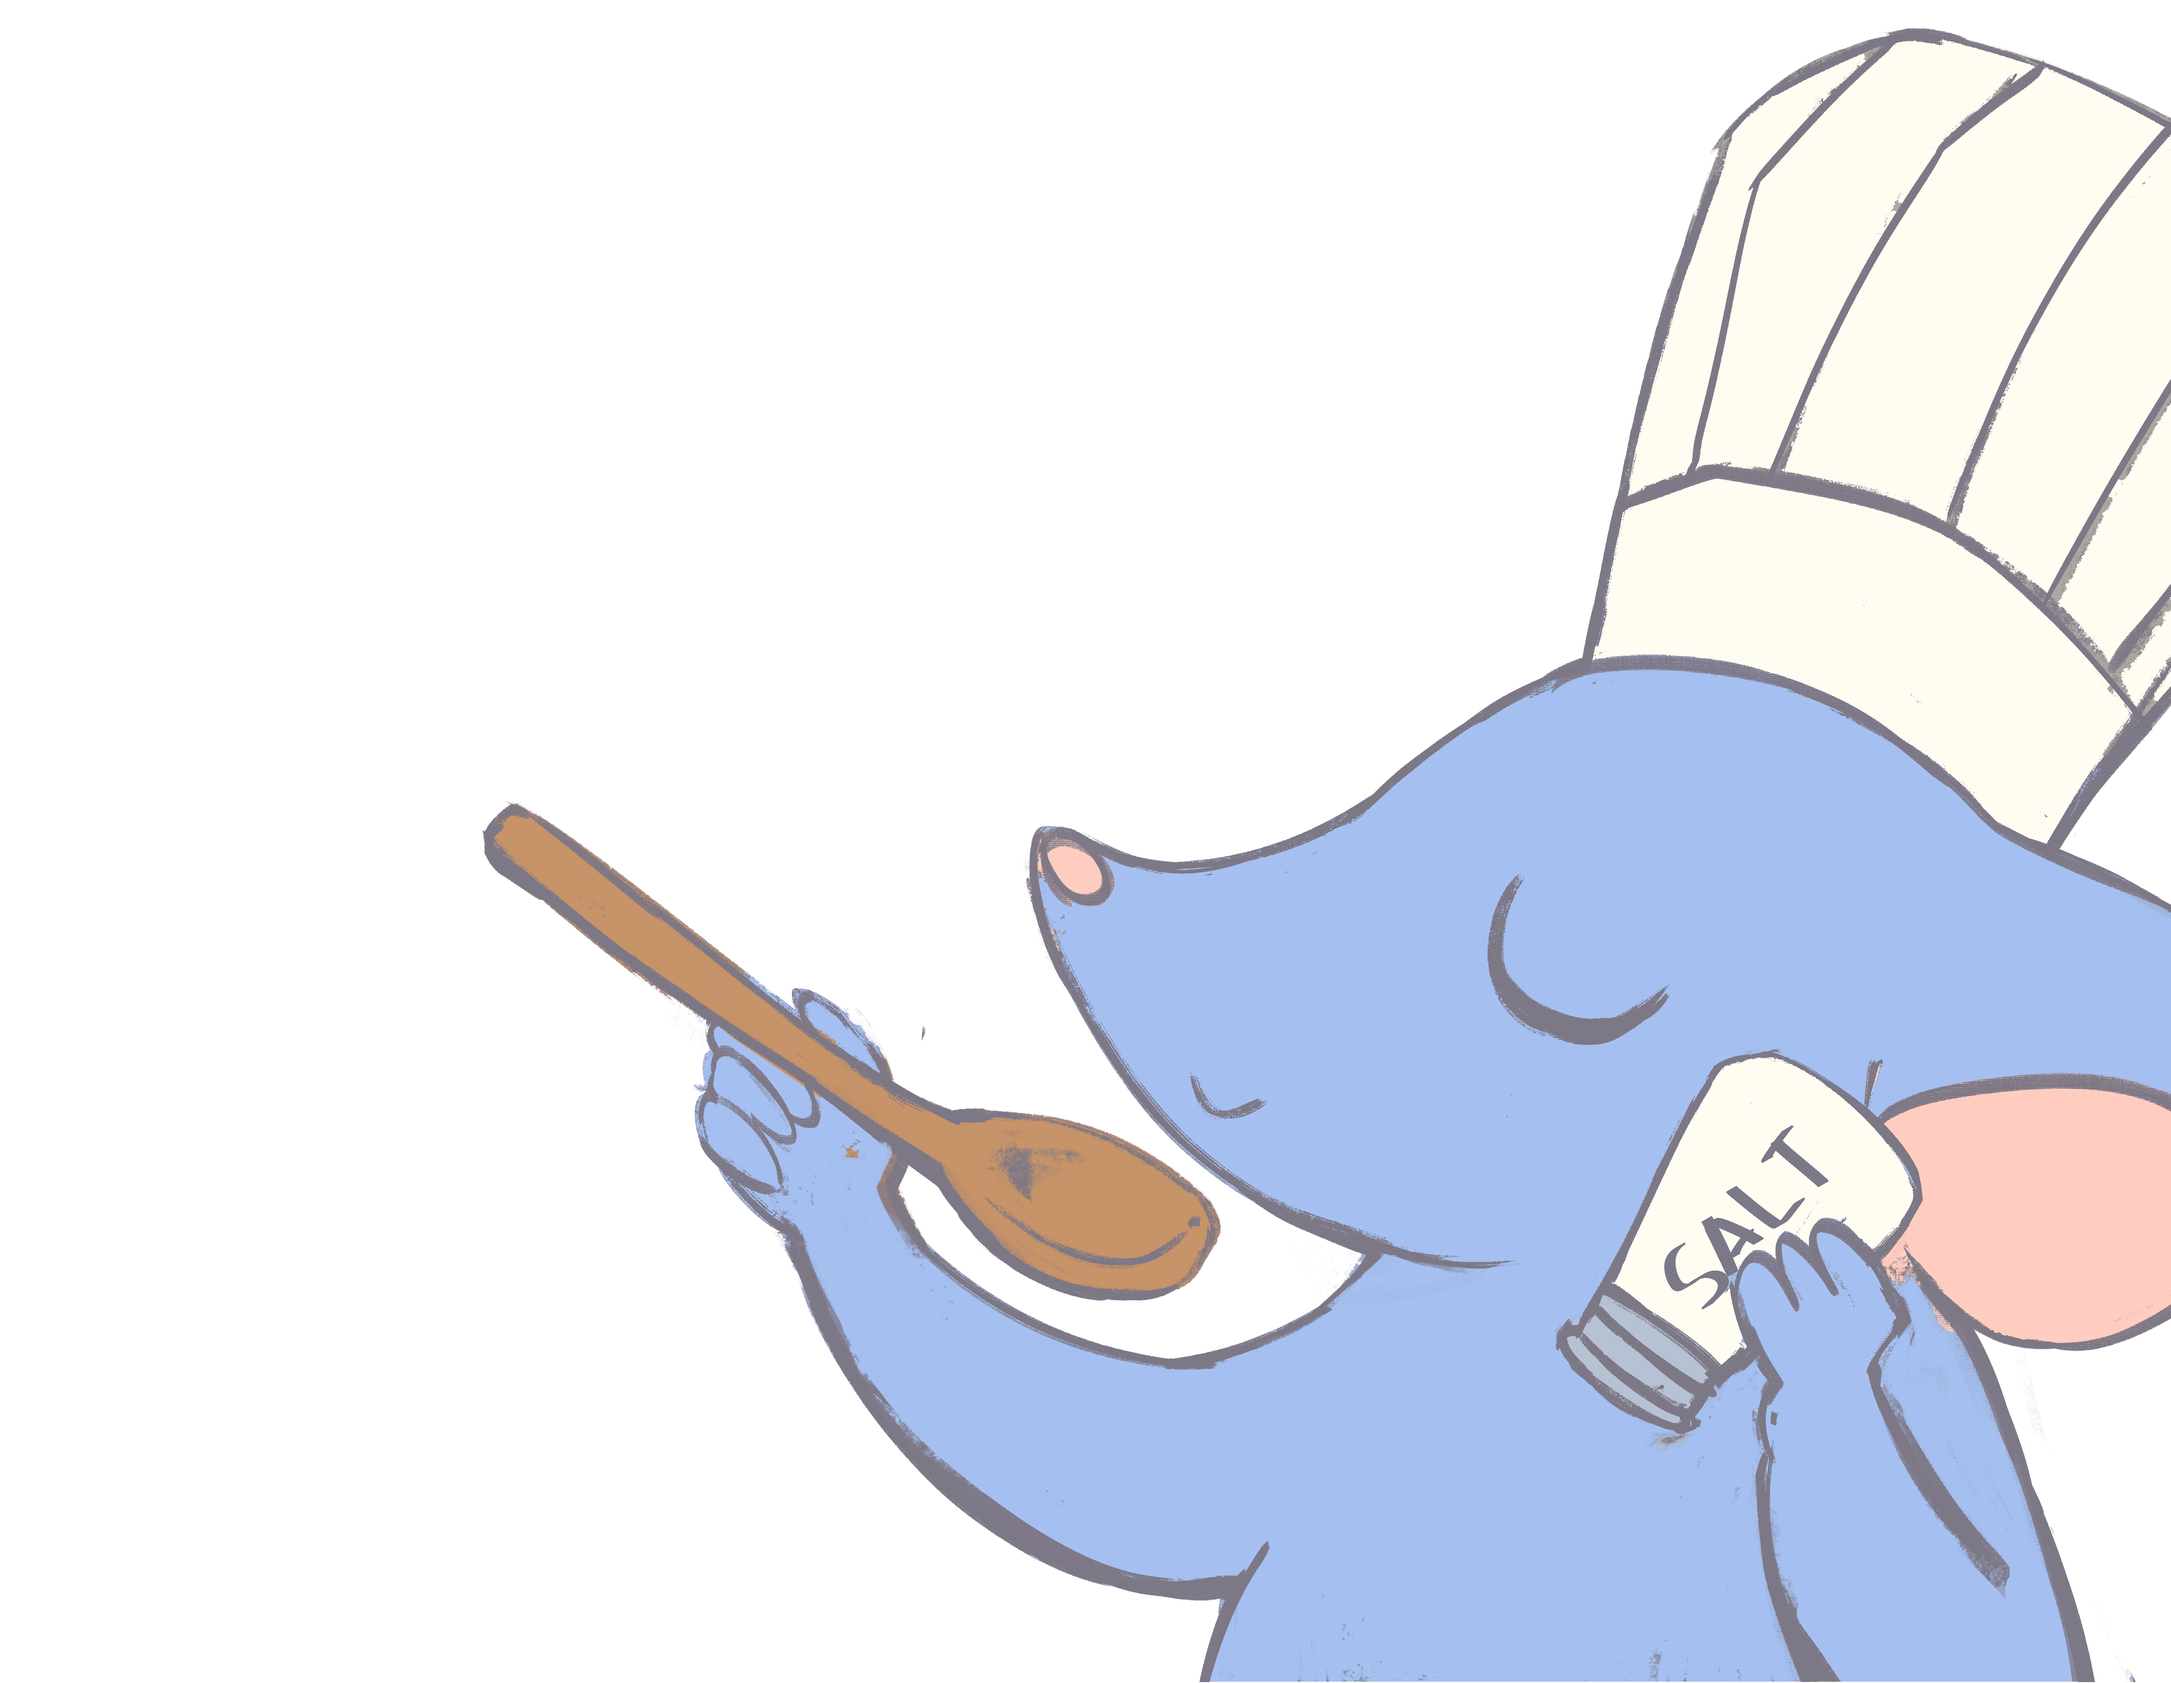
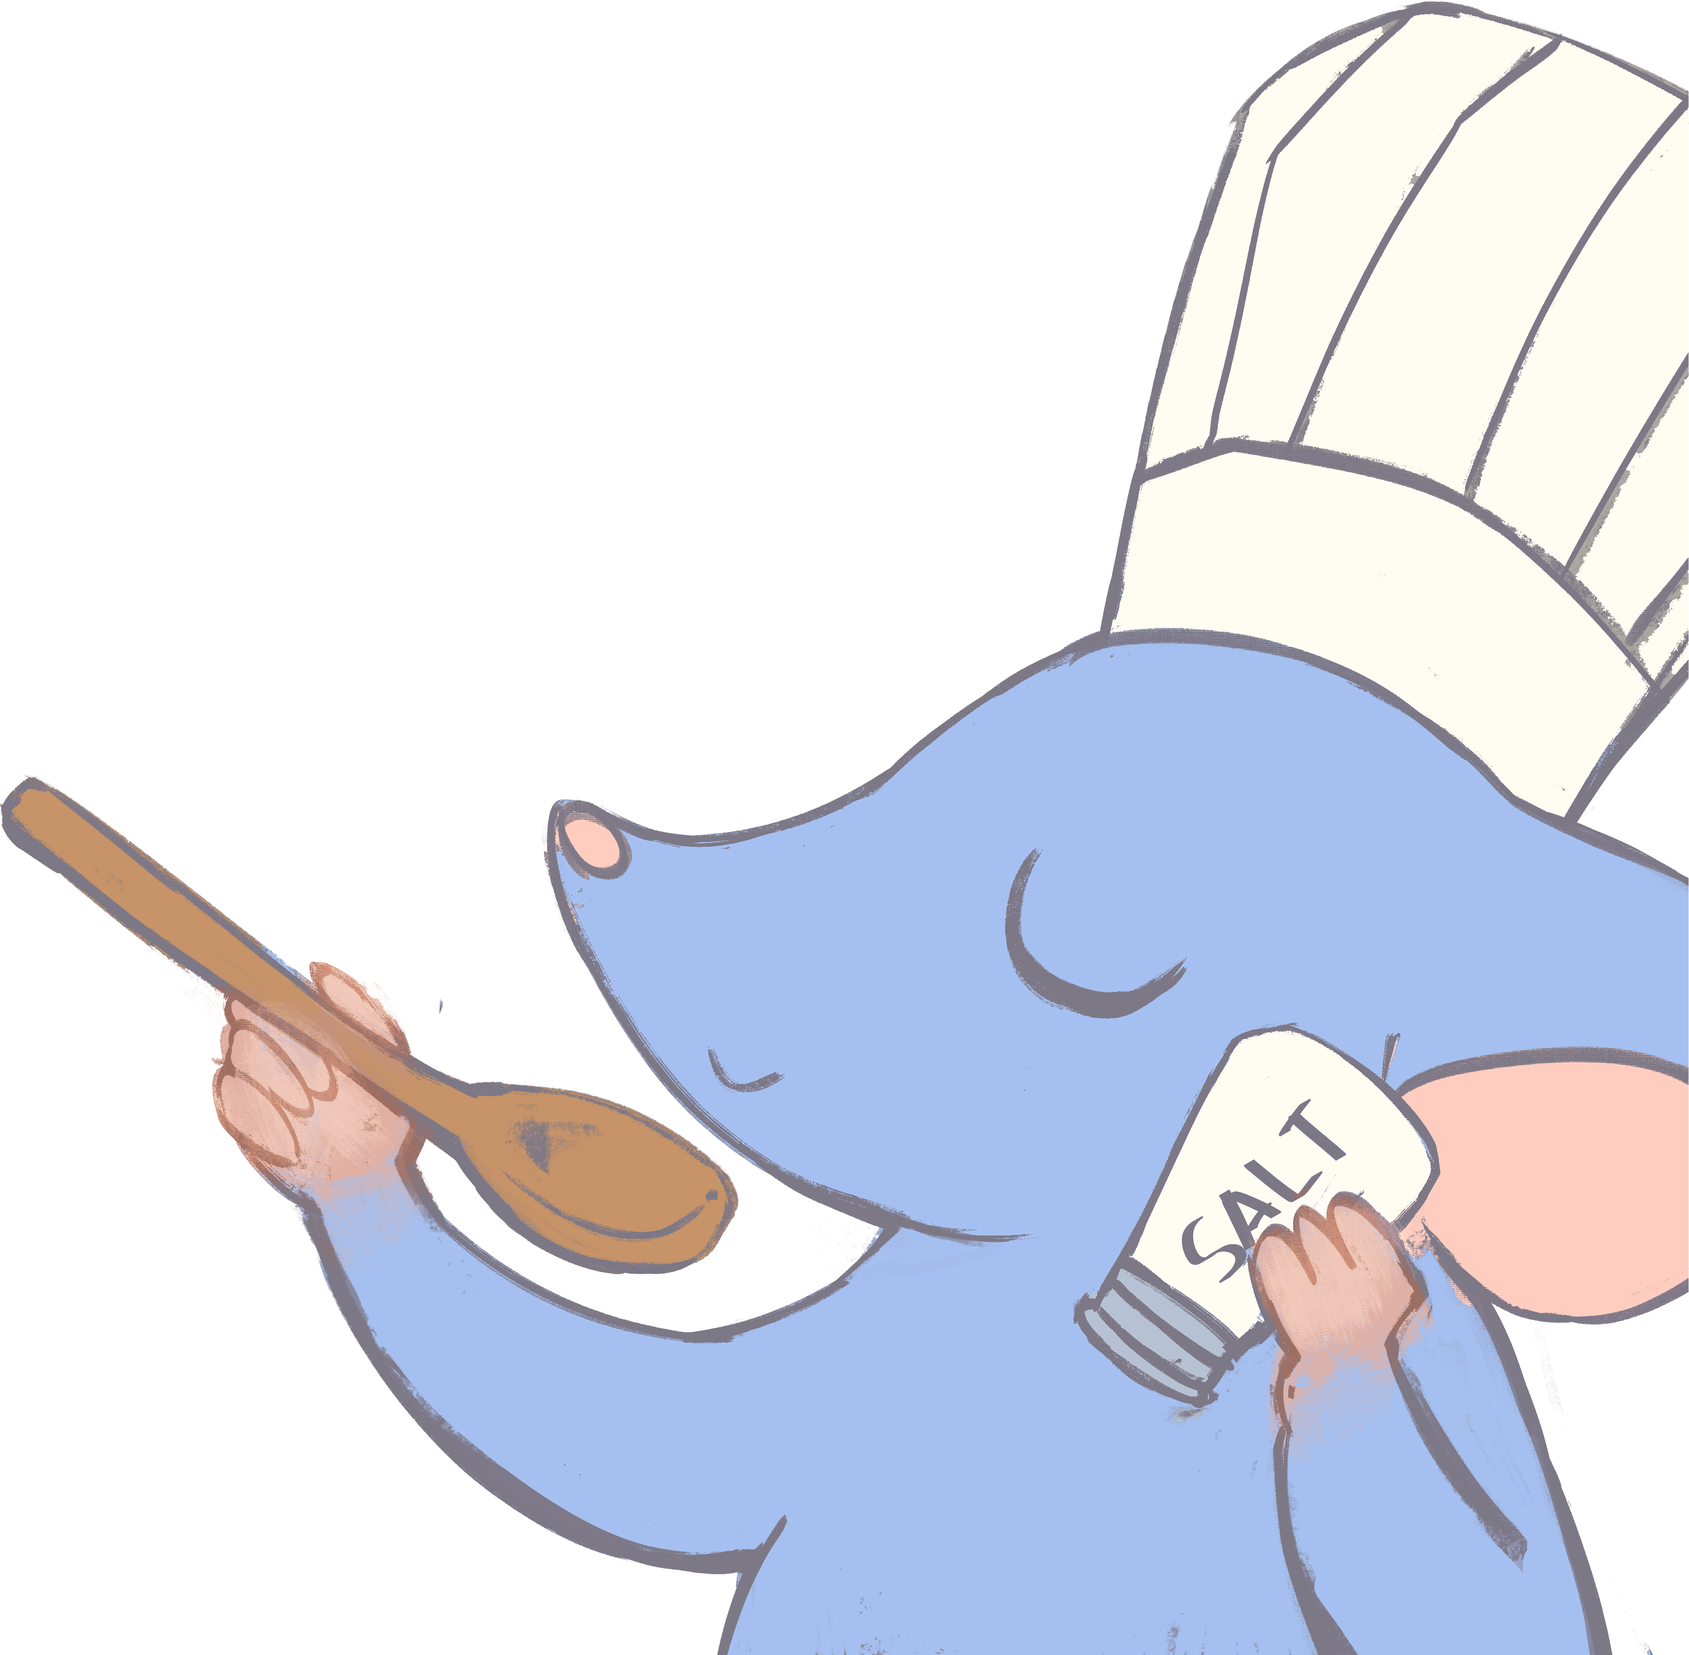
Finished section 3 basics

Changed region(s): [[0.0, 0.0, 1.0, 1.0], [0.9954, 0.5308, 1.0, 0.5621], [0.8398, 0.1561, 0.871, 0.1874]]

diff --git a/index.html b/index.html
@@ -38,6 +38,7 @@
 
         <!-- Section 2: Mental Illness in Canada (CAMH) -->
         <!-- TODO: Add "according to camh..." -->
+        <!-- TODO (Optional): Add transitions to each img element  -->
         <section id="2">
             <img src="https://static.vecteezy.com/system/resources/thumbnails/009/307/490/small/wooden-spoon-isolated-on-transparent-background-file-png.png"
                 id="wooden-spoon-img">
@@ -98,23 +99,38 @@
                 <div class="col-md-7">
                     <div class="section-3">
                         <div class="s3-explanation">
-                            Maybe you've heard of mental conditions described as "chemical imbalances". <br>
-                            Sometimes, this is can be the case! <br>
-                            Similar to Goldilocks looking for a perfect bowl of porridge,
-                            too much or too little of certain brain chemicals can cause undesired effects. <br>
-                            Brains want the "just-right" amount of chemicals to function properly!
+                            <div id="s3-explanation-1" class="animate__animated animate__fadeIn animate__slower">
+                                Maybe you've heard of mental conditions described as "chemical imbalances".
+                            </div>
+
+                            <div id="s3-explanation-2" class="s3-explanation-break animate__animated animate__fadeIn animate__slower animate__delay-1s">
+                                Sometimes, this is can be the case!
+                            </div>
+                            <div id="s3-explanation-3" class="s3-explanation-break animate__animated animate__fadeIn animate__slower animate__delay-2s">
+                                Similar to Goldilocks looking for a perfect bowl of porridge,
+                            </div>
+                            <div id="s3-explanation-4" class="s3-explanation-break animate__animated animate__fadeIn animate__slower animate__delay-3s">
+                                too much or too little of certain brain chemicals can cause undesired effects.
+                            </div>
+                            <div id="s3-explanation-5" class="s3-explanation-break animate__animated animate__fadeIn animate__slower animate__delay-4s">
+                                Brains want the "just-right" amount of chemicals to function properly!
+                            </div>
                         </div>
 
-                        <div class="soup-temperature-container">
+                        <div id="soup-table">
+
+                        </div>
+                        <!-- animate__slower animate__delay-5s -->
+                        <div class="soup-temperature-container animate__animated animate__bounceInLeft">
                             <div class="steam-container">
                                 <img id="steam1" class="steam-gif" src="https://media.baamboozle.com/uploads/images/613393/1673809501_61805_gif-url.gif">
                                 <img id="steam2" class="steam-gif" src="https://media.baamboozle.com/uploads/images/613393/1673809501_61805_gif-url.gif">
                                 <img id="steam3" class="steam-gif" src="https://media.baamboozle.com/uploads/images/613393/1673809501_61805_gif-url.gif">
                             </div>
-                            <div class="bowl-container">
-                                <button class="soup"> Too hot </button>
-                                <button class="soup"> Too cold </button>
-                                <button class="soup"> Just right! </button>
+                            <div class="bowl-container ">
+                                <button class="soup" value="hot" onclick="changeExpression(event)"> Too hot </button>
+                                <button class="soup" value="cold" onclick="changeExpression(event)"> Too cold </button>
+                                <button class="soup" value="right" onclick="changeExpression(event)"> Just right! </button>
                             </div>
                         </div>
                     </div>
@@ -123,6 +139,8 @@
 
                 <div class="col-md-5 salt-rat-parent">
                     <img id="salt-rat" src="img/rat-salt.png">
+                    <img id="salt-rat-hot" src="img/rat-salt-hot.png">
+                    <img id="salt-rat-cold" src="img/rat-salt-cold.png">
                 </div>
             </div>
         </section>

diff --git a/css/style.css b/css/style.css
@@ -50,7 +50,7 @@ section {
     font-family: "Belanosima", sans-serif;
     font-size: 1.2rem;
 
-    color: #076cbc;
+    color: #1880d5;
     background-color: #fff8e0; /* alt: #f2ebdb */
 
     overflow: hidden; /* prevent overflow */
@@ -280,18 +280,33 @@ section {
 
 .s3-explanation {
     position: absolute;
-    left: 25%;
+    left: 10%;
     top: 10rem;
+}
+
+.s3-explanation-break{
+    margin: 0.3rem;
+}
+
+#soup-table{
+    position: absolute;
+    bottom: -1.5rem;
+
+    width: 98%;
+    height: 25%;
+
+    background-color: #b2845d;
+    border-radius: 1rem ;
 }
 
 .soup-temperature-container{
     width: 100%;
 
     position: absolute;
-    bottom: 10rem;
+    bottom: 7rem;
 
     /* Positioning inside contents */
-    left: 25%;
+    left: 10%;
 }
 
 .soup {
@@ -299,10 +314,13 @@ section {
     height: 6rem;
     width: 10rem;
     border-radius: 7rem 7rem 50rem 50rem;
-    border: 0.5rem solid #c3cec2;
+    border: 0.4rem solid #b7c5bd;
 
     /* Positioning */
     margin-right: 1rem;
+
+    /* font color */
+    color: #ffb24b;
 }
 
 .steam-gif {
@@ -311,6 +329,7 @@ section {
     width: 10rem;
 
     margin-right: 1rem;
+    opacity: 0.5;
 }
 
 #steam2 {
@@ -318,21 +337,30 @@ section {
 }
 
 .soup:hover {
-    background-color: rgba(204, 82, 0, 0.27); /* Darker shade */
+    transform: scale(1.1);
+    transition: transform 0.5s ease-in-out;
 }
 
+.soup:not(:hover){
+    transform: scale(1);
+    transition: transform 0.5s ease-in-out;
+}
 
 .salt-rat-parent {
     position: relative;
     height: 100vh; /* Needs height for children */
 }
 
-#salt-rat {
+#salt-rat, #salt-rat-hot, #salt-rat-cold {
     position: absolute;
     right: 0;
     bottom: 0;
     height: 80vh;
     max-height: 100%;
+}
+
+#salt-rat-hot, #salt-rat-cold{
+    opacity: 0;
 }
 
 /**************************

diff --git a/js/main.js b/js/main.js
@@ -101,3 +101,39 @@ function nextSection(event) {
     }
 }
 
+/**
+ * Change the expression of salt rat
+ */
+function changeExpression(event){
+    let hot_opacity, cold_opacity, right_opacity = 0;
+
+    switch(event.target.value){
+        case "hot":
+            hot_opacity = 1;
+            break;
+        case "cold":
+            cold_opacity = 1;
+            break;
+        case "right":
+            right_opacity = 1;
+            break;
+        default:
+            console.log("default");
+    }
+    let duration = 1000;
+
+    d3.select("#salt-rat")
+        .transition()
+        .duration(duration)
+        .style("opacity", right_opacity);
+
+    d3.select("#salt-rat-hot")
+        .transition()
+        .duration(duration)
+        .style("opacity", hot_opacity);
+
+    d3.select("#salt-rat-cold")
+        .transition()
+        .duration(duration)
+        .style("opacity", cold_opacity);
+}
